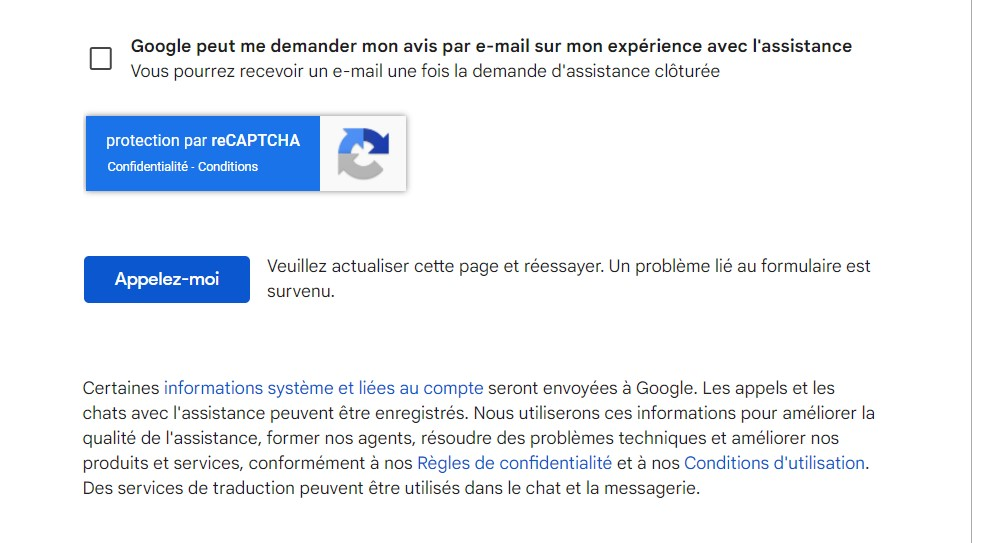
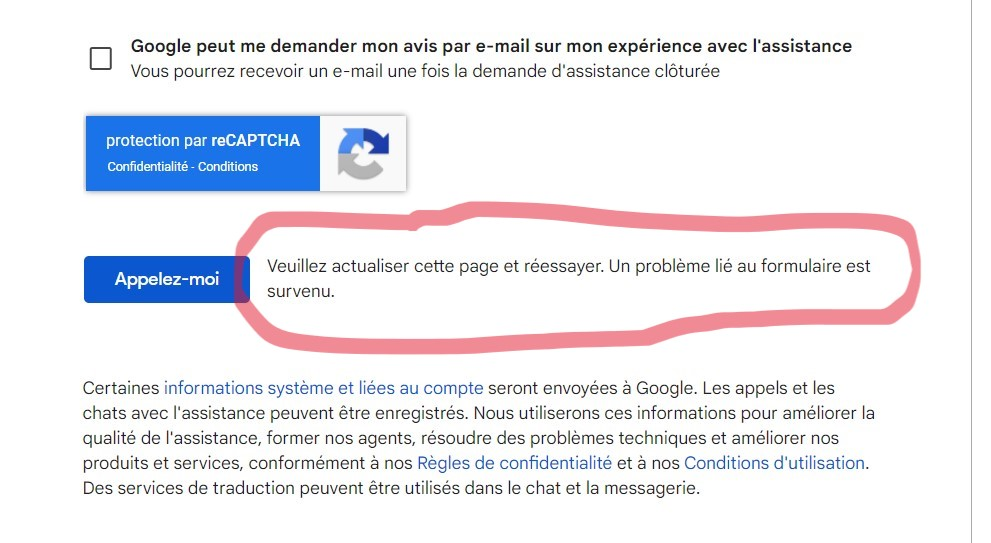
Fin MONs temps 1

Changed region(s): [[0.2119, 0.3536, 0.9384, 0.6777]]

diff --git a/TAING-Henri/mon/temps-1-2/index.md b/TAING-Henri/mon/temps-1-2/index.md
@@ -37,14 +37,15 @@ Avoir un cerveau à moitié allumé et encore...
 
 ## 1. Introduction <a id="section-1"></a>
 
-Ici, vous trouverez la suite du MON 1-1, sur "Les principes fondamentaux du marketing digital". Suivant la conclusion écrite au MON 1-1, les répétitions sont toujours présentes. Je vais essayer de les éviter le plus possible et de simplement compléter ce qu'il manquait dans le MON 1-1. De plus, autre chose que je n'ai pas mentionné, les exemples ne sont pas forcément toujours pertinents. Je pensais en apprendre plus sur les réseaux sociaux, finalement, nous sommes restés à la surface, ou peut-être est-ce parce qu'il n'y a pas de fond...
+Ici, vous trouverez la suite du MON 1-1, sur "Les principes fondamentaux du marketing digital". Suivant la conclusion écrite au MON 1-1, les répétitions sont toujours présentes. Autre chose que je n'ai pas mentionné, les exemples ne sont pas forcément toujours pertinents.
+Je pensais en apprendre plus sur les réseaux sociaux, finalement, nous sommes restés à la surface, ou peut-être est-ce parce qu'il n'y a pas de fond...
 
-Pour une raison qui me dépasse, j'ai rencontré plein de problèmes sur cette moitié de la formation, des erreurs 404 à la pelle et des fautes (?) de traduction.
+Pour une raison qui me dépasse, j'ai rencontré beaucoup de problèmes sur la deuxième moitié de la formation, des erreurs 404 à la pelle et des fautes (?) de traduction.
 :-------------------------:|:-------------------------:
 <img src="erreur404.jpg" width="350" height="350"> | <img src="eng2.jpg" width="350" height="350">
 
-J'ai essayé de reporter le problème à Google, mais même le formulaire n'a pas voulu s'envoyer.
-![Erreur formulaire](erreurformulaire.jpg "Erreur formulaire").
+J'ai essayé de reporter le problème à Google, mais même le formulaire ne voulait pas s'envoyer.
+![Erreur formulaire](erreurformulaire.jpg "Erreur formulaire"){width = 70%}.
 
 Enfin, j'ai réussi à finir la formation tant bien que mal, sans bien saisir le pourquoi du comment.
 
@@ -52,22 +53,24 @@ Enfin, j'ai réussi à finir la formation tant bien que mal, sans bien saisir le
 
 ### Le téléphone <a id="subsection-1"></a>
 
-Pour améliorer leur présence sur mobiles, la première étape consiste à modifier son site existant afin de le rendre réactif ou **"responsive"**. Ainsi, il s'affiche de façon optimale pour un maximum d'utilisateurs, sur tous les types d'appareils. Pour cela, il est préférable de faire appel à un développeur d'applications professionnel ou d'utiliser un outil en libre-service.
+Pour améliorer leur présence sur mobiles, la première étape consiste à modifier son site existant afin de le rendre réactif, **"responsive"**, pour qu'il soit accessible peu importe l'appareil utilisé.
 La deuxième étape est d'dentifier son audience, puis la segmenter sous la forme de groupes avant de créer des contenus ciblant ces utilisateurs.
 La troisième est de produire des contenus de qualité. Pour ce faire, un moyen simple consiste à élaborer une déclaration de mission en matière de contenu.
+
 Rédigez-la selon le modèle suivant :
 Notre [*décrivez l'entreprise ou la marque, par exemple "magasin local d'articles pour animaux"*] propose [*indiquez un service, par exemple "des équipements et des jeux d'excellente qualité pour le dressage canin"*]. Nous nous démarquons [*insérez votre particularité, par exemple "par notre expertise unique"*] et nous avons pour objectif [*indiquez le résultat souhaité pour vos clients, par exemple "de gagner la confiance des nouveaux propriétaires d'animaux domestiques"*]. Votre déclaration de mission en matière de contenu devrait donc se présenter comme suit : "Notre magasin local d'articles pour animaux vous propose des conseils d'expert et des équipements de qualité en matière de dressage canin. Nous sommes là pour vous aider à devenir le meilleur maître possible."
-Enfin, on publie le contenu et en faire la promotion auprès des segments d'audience qu'il a définis. On doit toujours privilégier la qualité plutôt que la quantité, et s'efforcer de débuter chaque article par une accroche attrayante.
+
+Enfin, on publie le contenu et on en fait la promotion auprès des segments d'audience qu'il a définis. On doit toujours privilégier la qualité plutôt que la quantité, et s'efforcer de débuter chaque article par une accroche frappante.
 
 Ces contenus passent par des canaux qui peuvent être publics ou privés.
-Les canaux publics désignent le relais des informations par un tiers, par exemple le partage du contenu par un autre blogger .Ils optimisent la portée et la crédibilité du contenu.
-Et, les canaux payants désignent tous les éléments de promotion qui vous sont facturés. Ces canaux peuvent vous permettre de cibler une audience spécifique, en fonction des objectifs et du budget de votre campagne.
+Les **canaux publics** désignent le relais des informations par un tiers, par exemple le partage du contenu par un autre blogger .Ils optimisent la portée et la crédibilité du contenu.
+Et, les **canaux payants** désignent tous les éléments de promotion qui vous sont facturés. Ces canaux peuvent vous permettre de cibler une audience spécifique, en fonction des objectifs et du budget de votre campagne.
 
 ### Les emails <a id="subsection-2"></a>
 
 Le **marketing par e-mail** est particulièrement efficace pour entrer et rester en contact avec ses clients. L'objet de vos e-mails doivent donner une bonne première impression, le contenu doit être concis avec de fortes incitations à l'action, et inclure des liens utiles pour les clients.
 
-Grâce aux outils d'analyse, on peut savoir combien de ses e-mails sont ouverts par les utilisateurs (**taux d'ouverture**) et combien de personnes cliquent sur les liens inclus dans les messages (**taux de clic**), et bounce rate (**taux de rebond**) qui est le pourcentage de visiteurs n'ayant pas ouvert une seule page ou cliqué sur un seul lien. On peut également connaître le nombre de ventes générées par ses e-mails. En revanche, l'analyse n'indique pas à quelle fréquence ses e-mails sont directement envoyés à la corbeille par ses clients potentiels. En plus des données décrites ci-dessus, on peut aussi utiliser l'analyse d'audience pour savoir comment les visiteurs interagissent avec son site.
+Grâce aux outils d'analyse, on peut savoir combien de ses e-mails sont ouverts par les utilisateurs (**taux d'ouverture**) et combien de personnes cliquent sur les liens inclus dans les messages (**taux de clic**), et bounce rate (**taux de rebond**) qui est le pourcentage de visiteurs n'ayant pas ouvert une seule page ou cliqué sur un seul lien. On peut également connaître le nombre de ventes générées par ses e-mails. En revanche, l'analyse n'indique pas à quelle fréquence ses e-mails sont directement envoyés à la corbeille par ses clients potentiels.
 
 On a parlé de segmentation plus tôt, dans le marketing par e-mail, il est important de faire un "test A/B" qui consiste à segmenter votre audience et à envoyer à chaque groupe une variante distincte de votre e-mail pour rendre les choses plus personnelles et plus attractives.
 
@@ -75,19 +78,20 @@ On a parlé de segmentation plus tôt, dans le marketing par e-mail, il est impo
 
 Les liens sponsorisés et la publicité display peuvent tous deux vous aider à trouver des clients et à accroître votre activité, mais ils fonctionnent différemment.
 
-Les **liens sponsorisés** (ou SEM) apparaissent quand les internautes saisissent des mots-clés spécifiques dans un moteur de recherche et fonctionnent sur un système d'enchères où l'enchérisseur ne paie que s'il y a clic. Les annonces du Réseau de Recherche sont textuelles. Par conséquent, elles sont idéales pour présenter un contenu à des personnes qui s'intéressent déjà à un sujet spécifique. Lorsqu'un utilisateur quitte un moteur de recherche, l'annonceur ne peut plus le cibler avec des annonces textuelles.
+Les **liens sponsorisés** (ou SEM) apparaissent quand les internautes saisissent des mots-clés spécifiques dans un moteur de recherche et fonctionnent sur un système d'enchères où l'enchérisseur ne paie que s'il y a clic. Les annonces du Réseau de Recherche sont textuelles. Elles sont idéales pour présenter un contenu à des personnes qui s'intéressent déjà à un sujet spécifique. Mais lorsqu'un utilisateur quitte le moteur de recherche, l'annonceur ne peut plus le cibler avec des annonces textuelles.
 On peut alors opter pour des **annonces display**, qui sont diffusées sur n'importe quel site Web où un espace publicitaire payant est disponible. Une annonce display peut contenir des images, ainsi que des éléments audio et vidéo, ce qui la rend souvent plus attrayante et plus créative qu'une annonce textuelle. Ceci peut attirer des personnes qui n'auraient pas spontanément recherché notre site Web.
 
-En plus de ces deux choses, pour faire revenir les clients potentiels sur le site, ceux qui ont débuté la procédure d'inscription par exemple, on peut faire du **reciblage** (ou remarketing). Ceci consiste à placer un cookie sur l'ordinateur ou le navigateur d'un utilisateur qui a visité votre site Web. Ce cookie permet de suivre le comportement de l'utilisateur et de lui présenter ensuite des annonces ciblées lorsqu'il navigue sur d'autres sites Web ou plateformes en ligne. Cela permet de rappeler à l'utilisateur votre produit ou service, ce qui peut augmenter les chances de conversion ou de réengagement.
+En plus de ces deux choses, pour faire revenir les clients potentiels sur le site, ceux qui ont débuté la procédure d'inscription par exemple, on peut faire du **reciblage** (ou remarketing).
+Ceci consiste à placer un **cookie** sur l'ordinateur ou le navigateur d'un utilisateur qui a visité votre site Web. Ce cookie permet de suivre le comportement de l'utilisateur et de lui présenter ensuite des annonces ciblées lorsqu'il navigue sur d'autres sites Web ou plateformes en ligne. Cela permet de rappeler à l'utilisateur votre produit ou service, ce qui peut augmenter les chances de conversion ou de réengagement.
 
 ## 3. La vidéo <a id="section-3"></a>
 
 ### D'abord, planifier <a id="subsection-4"></a>
 
-La vidéo constitue un élément populaire et attrayant de l'expérience en ligne. Les utilisateurs du monde entier apprécient l'énergie et les messages qu'on peut inclure, de façon extrêmement concise, dans une vidéo. Selon les spécialistes, une minute de vidéo équivaut à 1,8 million de mots !
-La publication de vidéos sur des chaînes YouTube pertinentes constitue un moyen efficace pour partager du contenu, car l'audience recherche déjà des vidéos en rapport avec la cuisine. Si on n'est pas prêt à mettre en ligne ses propres vidéos, il peut diffuser des annonces sur les chaînes et les sites d'autres personnes. On peut aussi publier une vidéo sur les réseaux sociaux, mais il doit utiliser sa page professionnelle et non personnelle. Une autre façon d'utiliser la vidéo est d'intégrer cet aspect à ses e-mails, par exemple, pour augmenter le taux d'interaction avec le contenu.
+Selon les spécialistes, une minute de vidéo équivaut à 1,8 million de mots !
+Si on n'est pas prêt à mettre en ligne ses propres vidéos, on peut diffuser des annonces sur les chaînes et les sites d'autres personnes. On peut aussi publier une vidéo sur les réseaux sociaux, mais on doit utiliser sa page professionnelle et non personnelle. Une autre façon d'utiliser la vidéo est d'intégrer cet aspect à ses e-mails, par exemple, pour augmenter le taux d'interaction avec le contenu.
 
-![Étapes classiques dans la création de vidéo](etapes.jpg "Étapes classiques dans la création de vidéo").
+![Étapes classiques dans la création de vidéo](etapes.jpg "Étapes classiques dans la création de vidéo"){width = 70%}.
 
 En planifiant votre action en amont, vous pouvez tourner plusieurs vidéos en même temps. Cela nécessitera moins d'efforts et de ressources, et donc un budget moins élevé. Afin de limiter les frais, vous pouvez utiliser des téléphones mobiles pour tourner vos vidéos, et le logiciel fourni avec le système d'exploitation de votre ordinateur pour effectuer le montage. N'oubliez pas que l'élaboration du story-board de votre contenu vidéo est une étape essentielle. Elle vous permet de vérifier que tous les paramètres sont définis avant de commencer (dialogues, illustrations, mouvements et angles de la caméra).
 
@@ -105,10 +109,10 @@ Un des principaux avantages qu'offre le numérique pour votre entreprise est de 
 
 Si vous savez comment transformer vos données numériques en **connaissances exploitables**, vous pourrez améliorer les résultats de vos campagnes en ligne et atteindre plus facilement vos objectifs.
 
-![Cycle des données](Cycle_des_donnees.jpg "ycle des données").
+![Cycle des données](Cycle_des_donnees.jpg "Cycle des données").
 
 Grâce aux outils d'analyse, vous pouvez collecter et examiner des données en temps réel. Les feuilles de calcul sont idéales pour stocker et gérer vos données en matière de marketing numérique.
-Réfléchissez aux données relatives à vos actions sur les médias sociaux et essayez de créer une feuille de calcul qui vous permettra d'étudier chaque jour toutes vos statistiques en la matière :
+Réfléchissez aux données relatives à vos actions sur les médias sociaux et essayez de créer une feuille de calcul qui vous permettra d'étudier chaque jour toutes vos statistiques :
 
 1. Créez une ligne pour chaque média social.
 2. Dans les colonnes, saisissez les données suivantes dans la première ligne : nombre d'abonnés, nombre total de J'aime (ou autres statistiques provenant de chaque média social), engagement (par exemple, les retweets/réponses pour Twitter ou les partages/commentaires pour Facebook) et toute autre statistique pertinente par rapport à vos objectifs spécifiques (utilisation des hashtags ou taux de conversion, par exemple).
@@ -116,15 +120,18 @@ Réfléchissez aux données relatives à vos actions sur les médias sociaux et 
 
 À l'aide de ce tableau, vous pouvez utiliser des représentations pour faciliter l'interprétation des données et donc les transformer en quelque chose d'exploitable et pertinent. Par exemple, les graphiques à secteurs sont plus efficaces pour illustrer des pourcentages plutôt que des variations ou des tendances. La carte thermique peut représenter des données de localisation. Plus qu'à choisir ce qui pourrait intéresser ou être utile aux investisseurs.
 
-### 4. Créer une boutique en ligne <a id="section-4"></a>
+### 4. Créer une boutique en ligne et viser l'international <a id="section-4"></a>
 
 Une boutique en ligne simplifie les achats directs sur le site en offrant une plateforme centralisée pour gérer efficacement les commandes des clients, ce qui peut améliorer l'efficacité opérationnelle et la gestion des stocks. Cela permet au propriétaire ou au gérant de suivre facilement les ventes, de gérer les niveaux de stock, de traiter les commandes et de s'assurer que les produits sont expédiés rapidement et de manière efficace.
 
-Avant de se lancer à l'international, vous devez connaître la différence entre "traduction" et "localisation", et vérifier que vous possédez l'infrastructure technique nécessaire pour gérer cette démarche globale. Une fois que vous disposez d'une base solide, vous pouvez diffuser vos annonces dans le monde entier afin de présenter vos messages marketing auprès des bonnes personnes, où qu'elles se trouvent.
+Prochaine étape, l'international.
+Vous devez connaître la différence entre "**traduction**" et "**localisation**", et vérifier que vous possédez l'infrastructure technique nécessaire pour gérer cette démarche globale.
 
-La **traduction** consiste à retranscrire le contenu dans une autre langue. Quant à la **localisation**, elle vise à adapter le contenu à une autre culture. Il s'agit, par exemple, de supprimer ou de réécrire les expressions courantes, les tournures idiomatiques ou le contenu humoristique. Plus généralement, le but est d'adapter le site aux besoins du nouveau marché. La localisation peut également consister à modifier des éléments comme la devise, les adresses et les références culturelles afin de rendre le contenu conforme au marché local.
+La **traduction** consiste à retranscrire le contenu dans une autre langue.
 
-Avant de déterminer si on parviendrait à atteindre nos objectifs de croissance en développant nos activités dans un autre pays, on doit vérifier plusieurs points :
+Quant à la **localisation**, il s'agit d'adapter le contenu à une autre culture, par exemple, en supprimant ou en réécrivant les expressions courantes, les tournures idiomatiques ou le contenu humoristique. La localisation peut également consister à modifier des éléments comme la devise, les adresses et les références culturelles afin de rendre le contenu conforme au marché local.
+
+Avant de déterminer si on parviendra à atteindre nos objectifs de croissance en développant nos activités dans un autre pays, on doit vérifier plusieurs points :
 
 - Les droits de douane
 - Les taxes du pays qui nous intéresse
@@ -136,11 +143,11 @@ Enfin, on doit également vérifier la procédure d'expédition, ainsi que les d
 
 ## 5. Conclusion et remarques <a id="section-5"></a>
 
-En conclusion, je pense que la formation a fonctionné dans le sens où j'ai bien l'impression d'avoir acquis les bases du marketing digital. Finalement, le plus gros défi n'a pas été de passer la certification, mais de faire cet exercice de rédaction et de synthèse de tous les éléments mentionnés.  
-Plus qu'à appliquer ça dans le cadre de la commercialisation d'un futur produit (?) !
+La formation a fonctionné dans le sens où j'ai bien l'impression d'avoir acquis les bases du marketing digital.
+Le plus gros défi n'a pas été de passer la certification, mais de faire cet exercice de rédaction et de synthèse de tous les éléments mentionnés et de survivre aux heures interminables de vidéos.
 
-Un commentaire sur la formation :
-5/10, j'ai appris des choses, mais la forme laisse à désirer et le fond n'est pas profond, sans compter les problèmes techniques. Je pense que prendre le temps d'appliquer toute cette théorie apprise me ferait augmenter la note, mais, au pire, je reviendrai dessus plus tard. Il n'est jamais trop tard pour changer d'avis après tout.
+<u>Un dernier commentaire sur la formation<u>
+5/10, le fond n'est pas profond, sans compter les problèmes techniques. Prendre le temps d'appliquer serait intéressant. Ce sera pour plus tard, peut-être.
 
 ### Sources
 

diff --git a/TAING-Henri/mon/temps-1-1/index.md b/TAING-Henri/mon/temps-1-1/index.md
@@ -35,14 +35,12 @@ Avoir un cerveau à moitié allumé
 
 ## 1. Introduction <a id="section-1"></a>
 
-Être ingénieur, au-delà de nécessiter d'un bagage technique, demande des soft-skills développés et un contact humain particulier. Savoir vendre et savoir se vendre, voilà ce que je veux apprendre à travers cette formation "Les fondamentaux du marketing digital" proposée par Google. Et dans ce MON, je résume ces 40 heures qui ne sont pas que du plaisir.
-Ici, on prend le point de vue d'une personne voulant créer son entreprise et la développer sur internet.
+Savoir vendre, voilà ce que je veux apprendre à travers cette formation "Les fondamentaux du marketing digital" proposée par Google. Dans mon MON 1.1 et 1.2, je synthétise ces 40 heures qui ne sont pas que du plaisir.
+On prendra le point de vue d'une personne voulant créer son entreprise et la développer sur internet.
 
 ## 2. Développer son activité sur internet <a id="section-2"></a>
 
 ### Une introduction du pourquoi et du comment <a id="subsection-1"></a>
-
-Développer ses services sur internet permet de toucher de nouveaux prospects et d'établir de meilleures relations avec les clients existants. On peut vendre ses produits ou services au niveau local et/ou international, et utiliser des outils d'analyse perfectionnés pour connaître précisément les attentes et les besoins des consommateurs.
 
 Avant de se lancer, il est important de définir ses objectifs, ses valeurs et son argument de vente unique pour pouvoir construire sa stratégie marketing et composer sa campagne de publicité ciblée.
 Quelques questions pour nous orienter :
@@ -56,20 +54,20 @@ Une façon de commencer pour faire la publicité de notre entreprise est de pass
 
 ### Lancer son site web <a id="subsection-2"></a>
 
-Il va falloir obtenir ce que l'on appelle un "**espace d'hébergement**", que l'on peut comparer à un terrain constructible. Vous devez parfois payer des frais, mais l'hébergement est parfois gratuit. Par conséquent, comparez les offres avant de vous décider. Il existe de nombreux "terrains constructibles" sur un serveur. On peut d'ailleurs imaginer ce dernier comme une rue où de nombreuses entreprises louent un espace de site Web et partagent en quelque sorte le même code postal. Chaque serveur est associé à ce que l'on appelle une adresse IP (Internet Protocol). Il s'agit d'une chaîne de numéros pouvant être localisés par tout appareil capable de se connecter à Internet. Chaque site Web dispose d'un nom de domaine, à savoir tout ce qui suit "www." (World Wide Web). Cela fonctionne un peu comme l'adresse postale de votre domicile.
-Que se passe-t-il si un utilisateur souhaite vous trouver ou, comme ici, accéder à votre site Web ? Il se sert d'un navigateur, tel que Google Chrome. Celui-ci repère votre site Web, récupère les informations, puis les affiche. La durée de chargement d'un site dépend de plusieurs facteurs : la quantité et le type de données ainsi que la vitesse de la connexion Internet, par exemple.
+Il va falloir obtenir ce que l'on appelle un "**espace d'hébergement**", que l'on peut comparer à un terrain sur lequel on peut construire.
+Il existe de nombreux "terrains" sur un serveur. On peut d'ailleurs imaginer ce dernier comme une rue où de nombreuses entreprises louent un espace de site Web et partagent en quelque sorte le même code postal. Chaque serveur est associé à ce que l'on appelle une adresse IP (Internet Protocol). Il s'agit d'une chaîne de numéros pouvant être localisés par tout appareil capable de se connecter à Internet. Chaque site Web dispose d'un nom de domaine, à savoir tout ce qui suit "www." (World Wide Web). Cela fonctionne un peu comme l'adresse postale de votre domicile.
+Un utilisateur voulant vous retrouver, repère votre site Web grâce à une recherche sur son navigateur, récupère les informations, puis les affiche.
+La durée de chargement d'un site dépend de plusieurs facteurs : la quantité et le type de données ainsi que la vitesse de la connexion Internet, par exemple.
 
-Une attention particulière doit être portée à la façon d’organiser les informations sur les pages. De plus, le ton employé doit inspirer confiance aux utilisateurs, raconter l'histoire de l'entreprise et décrire ses produits, sans pour autant les intimider ou les désintéresser. Il est important que le ton du post corresponde à la vocation du canal social utilisé. Obtenir des avis peut beaucoup aider, n’hésitez pas à contacter vos meilleurs clients pour qu’ils puissent partager leurs témoignages.
+Une attention particulière doit être portée à la façon d’organiser les informations sur les pages. Le ton employé doit inspirer confiance aux utilisateurs, raconter l'histoire de l'entreprise et décrire ses produits, sans pour autant les intimider ou les désintéresser. Il est important que le ton du post corresponde à la vocation du canal social utilisé. Obtenir des avis peut beaucoup aider, n’hésitez pas à contacter vos meilleurs clients pour qu’ils puissent partager leurs témoignages.
 
 ### Parcours client <a id="subsection-3"></a>
 
 En plus des codes de la **bonne pratique**, tels qu’avoir une barre de recherche et la possibilité de revenir sur l’accueil en cliquant sur le logo, il faut savoir se mettre à la place du client.
 
-Faites la liste de ce que vous voulez que les gens puissent faire sur votre site, comme trouver votre numéro de téléphone, remplir un formulaire de contact, ou regarder une vidéo. Ensuite, demandez à un ami ou à un membre de votre famille (qui n'a jamais vu votre site) d'essayer d'accomplir ces tâches. Si possible, observez-le pendant qu'il navigue sur votre site. Est-ce qu'il y arrive ? Est-ce que certaines zones de votre site sont difficiles à utiliser ? Est-ce que certains points pourraient être améliorés ?
-
 Repensez au dernier produit que vous avez acheté en ligne, puis réexaminez le modèle "**See, Think, Do, Care**" (voir, penser, agir, accorder de l'attention) que nous avons abordé dans cette leçon.
 Analysez votre parcours client via les points de contact rencontrés avant de réaliser l'achat.
-![Questions à se poser sur le parcours client](lesquestions.jpg "Questions à se poser sur le parcours client").
+![Questions à se poser sur le parcours client](lesquestions.jpg "Questions à se poser sur le parcours client"){width=70%}.
 
 Quelques points à garder en tête en plus :
 
@@ -83,7 +81,6 @@ Quelques points à garder en tête en plus :
 ### Mesurer pour optimiser <a id="subsection-4"></a>
 
 Les outils d'analyse permettent de savoir quelles sont les sections les plus consultées et connaître l'origine géographique des utilisateurs afin de pouvoir adapter sa stratégie. On peut ainsi effectuer une segmentation de la clientèle ou par exemple, si de nombreuses personnes accèdent à son site sur un appareil mobile, on peut vérifier que son site est optimisé pour les smartphones.
-De plus, si on ajoute le code de suivi des conversions à la page qui s'affiche une fois que l'utilisateur a envoyé sa demande de renseignements, on saura quand un client potentiel a précisément effectué cette action. Ainsi, on pourra bien les distinguer de ceux qui ont consulté la page de demande d'informations, mais qui ont décidé de ne pas envoyer de message.
 
 Afin de fournir une analyse pertinente, il nous faut choisir nos **KPIs — les Key Indicator Performance** en anglais, sont les indicateurs d'une entreprise qui permettent de mesurer une performance — qui sont : - spécifiques - mesurables - réalistes - pertinents - limités dans le temps.
 Un KPI peut correspondre à n'importe quel élément vous rapprochant de la réalisation de votre objectif.
@@ -96,7 +93,8 @@ Cependant, nous pouvons faire en sorte de maximiser nos chances d'apparaître da
 
 L'utilisation de libellés précis pour vos images facilite leur affichage lorsque les utilisateurs effectuent des recherches pertinentes. De même, l'utilisation de titres de pages précis favorise la visibilité des sites Web dans les résultats de recherche pertinents.
 Enfin, il faut choisir les **mots-clés** que les clients potentiels sont susceptibles de saisir dans le champ de recherche.
-Toutes ces petites astuces font partie du **SEO** (Search Engine Optimization), tous les procédés visant à améliorer la qualité et la quantité des flux vers le site, en particulier, le trafic dit "naturel" ou "organique". Gardez à l'esprit qu'aucune agence ne peut garantir la meilleure position dans les résultats naturels. Avec le **SEA** (Search Engine Advertising), qui lui agit sur le trafic payant à l'aide d'annonces sponsorisées, ils forment le « **SEM** » (Search Engine Marketing) et désignent le marketing des moteurs de recherche.
+Toutes ces petites astuces font partie du **SEO** (Search Engine Optimization) — tous les procédés visant à améliorer la qualité et la quantité des flux vers le site, en particulier, le trafic dit "naturel" ou "organique". Gardez à l'esprit qu'aucune agence ne peut garantir la meilleure position dans les résultats naturels. Avec le **SEA** (Search Engine Advertising), qui lui agit sur le trafic payant à l'aide d'annonces sponsorisées, ils forment le « **SEM** » (Search Engine Marketing) et désignent le marketing des moteurs de recherche.
+
 Le SEM regroupe un ensemble de techniques dont l'objectif commun est de garantir une bonne visibilité à un annonceur via le positionnement organique, d'une part, et la mise en place de campagnes payantes, d'autre part, avec un système d’enchères sur les mots-clés par exemple.
 
 Un plan SEO comprend cinq étapes à réitérer au cours du temps pour suivre les tendances et l'évolution des moteurs de recherche :
@@ -109,9 +107,9 @@ Un plan SEO comprend cinq étapes à réitérer au cours du temps pour suivre le
 
 Dans le domaine du SEO, la **longue traîne** désigne les expressions longues qui correspondent spécifiquement à l'un de vos produits ou services. Elles sont associées à un faible volume de recherches et sont donc confrontées à une concurrence moins élevée. Par conséquent, elles ont plus de chances d'être pertinentes par rapport aux requêtes des utilisateurs.
 
-Un autre outil pour améliorer sa visibilité est le **lien retour**, c'est-à-dire des liens pointant vers son site qui figurent sur d'autres sites Web. Pour cela, il faut produire des contenus de qualité et ne pas hésiter à collaborer avec d'autres personnes. Attention, le moteur de recherche peut tenir compte de la pertinence de l'origine du lien retour, des sites artificiels pour générer des liens retours ne marcherait pas par exemple.
+Un autre outil pour améliorer sa visibilité est le **lien retour**, c'est-à-dire des liens pointant vers son site qui figurent sur d'autres sites Web. Pour cela, il faut produire des contenus de qualité et ne pas hésiter à collaborer avec d'autres personnes. Attention, le moteur de recherche peut tenir compte de la pertinence de l'origine du lien retour, des sites artificiels pour générer des liens retours n'aiderait pas par exemple.
 
-En matière de référencement, la meilleure pratique consiste à créer différentes pages pour chaque langue qu'on souhaite proposer sur son site Web. Ainsi, le site aura toutes les chances d'être correctement indexé dans les moteurs de recherche. Éric doit éviter d'inclure des contenus dans différentes langues sur une même page, car le moteur de recherche ne pourra pas déterminer dans quelle langue ils sont rédigés. Le résultat d'une traduction automatique étant parfois considéré comme du spam, nous lui conseillons également de ne pas utiliser ce type d'outil. Enfin, les annotations de langue sont utiles, car elles aident les moteurs de recherche à afficher le contenu le plus adéquat pour l'utilisateur d'un pays donné.
+En matière de référencement, la meilleure pratique consiste à créer différentes pages pour chaque langue qu'on souhaite proposer sur son site Web. Ainsi, le site aura toutes les chances d'être correctement indexé dans les moteurs de recherche.
 
 On peut également choisir ces "mots-clés à exclure" pour éviter que des personnes ne voient son annonce lorsqu'elles effectuent des recherches sur ces termes pour diffuser des annonces qui correspondent précisément à la recherche des utilisateurs.
 
@@ -119,22 +117,15 @@ On peut également choisir ces "mots-clés à exclure" pour éviter que des pers
 
 Pour certains, le meilleur moyen d'attirer les touristes serait d'adapter son site Web à la **recherche locale**. Aujourd'hui, les utilisateurs ont l'habitude de consulter leur téléphone lorsqu'ils sont en déplacement et ont besoin d'obtenir rapidement des informations. C'est pourquoi il est primordial d'établir une présence en ligne locale pour votre entreprise.
 
-Il faut indiquer au minimum le nom de l'établissement, l'adresse, le numéro de téléphone et les horaires d'ouverture pour inclure sa fiche dans un annuaire local. On peut également ajouter d'autres éléments facultatifs, tels que des photos de ses produits, en fonction du site qu'il a choisi.
-
-Grâce aux annonces locales, on peut adapter son message aux personnes situées à proximité de sa boutique. Toutes ces méthodes permettent de cibler plus spécifiquement les clients locaux.
-
 Le **GPS** est une technologie très intéressante, dont on peut tirer parti. Selon les fonctionnalités de l'application qu'on utilise, on peut envoyer des alertes lorsque des utilisateurs se trouvent à proximité du magasin ou proposer simplement un plan pour les aider à trouver l'itinéraire.
 
 ### 4. Introduction aux réseaux sociaux <a id="section-4"></a>
 
-La finalité des réseaux sociaux repose essentiellement sur la **communication** avec les utilisateurs, le but étant qu'ils vous connaissent mieux, vous et votre entreprise. Vous devez débuter une conversation, puis l'entretenir en publiant régulièrement du contenu, tout en veillant à ne pas inonder vos abonnés de messages. Nous vous déconseillons de nommer et de dénigrer vos concurrents, mais aussi de supprimer tous les posts négatifs, car cela pourrait nuire à votre image et déplaire aux abonnés. Pour ces mêmes raisons, évitez de trop commenter les posts personnels des abonnés.
-Grâce aux réseaux sociaux, on peut mettre en avant le profil de son entreprise et développer sa clientèle en incitant les abonnés à partager leurs contenus avec leurs amis.
+La finalité des réseaux sociaux repose essentiellement sur la **communication** avec les utilisateurs, le but étant qu'ils vous connaissent mieux, vous et votre entreprise.
 
 Un plan marketing sur les réseaux sociaux permet de définir une stratégie et de planifier son activité sur les réseaux et de comment la mesurer. Ensuite, on peut créer des profils sur les réseaux sociaux les plus adaptés à son entreprise et configurer un outil de gestion afin d'effectuer le suivi de son activité sur ces sites. Enfin, on peut préparer des posts à l'avance, qui seront publiés automatiquement lors des événements clés qu'on a planifiés.
 
-Si on souhaite se développer à l'international, on n'a pas besoin de limiter ses annonces à une audience locale. Si on combine une audience mondiale et une publicité correctement ciblée, on pourra utiliser son budget judicieusement, en se concentrant sur les personnes qui ont le plus de chances de devenir des clients.
-
-L'analyse des réseaux sociaux permet aux responsables d'entreprise de savoir comment les clients interagissent sur leur site avec leurs produits et services, et comment ils y accèdent, pour déterminer si ce qu'elle entreprend est bénéfique et identifier les campagnes les plus efficaces pour générer du trafic vers son site Web.
+L'analyse des réseaux sociaux permet de savoir comment les clients interagissent sur leur site avec leurs produits et services, et comment ils y accèdent, pour déterminer si ce qu'elle entreprend est bénéfique et identifier les campagnes les plus efficaces pour générer du trafic vers son site Web.
 
 Le principal avantage des réseaux sociaux, c'est qu'on peut s'adresser directement à vos clients, et interagir avec eux au bon moment et de la bonne façon.
 
@@ -142,8 +133,8 @@ Le principal avantage des réseaux sociaux, c'est qu'on peut s'adresser directem
 
 Nous avons pu dans ce MON 1.1 voir les bases du marketing en ligne, mais il manque un pan, les réseaux sociaux, que nous pourrons voir dans mon MON 1.2.
 
-Un commentaire sur la formation :
-Je suis arrivé à l'équivalent de la moitié de la formation. Il y a beaucoup de répétitions et une insistence fatigante d'utiliser les outils proposés par Google (Oui, ils ont le monopole, mais le rappeler à chaque minute devient lassant). Bien que dans le fond, l'intérêt est là, sur la forme, je pense que l'on pourrait faire mieux, que ce soit en terme de volume horaire en organisant mieux les parties et en évitant des redites et en variant les façons de tester ses connaissances. On aurait également voulu plus de schémas et moins de blabla.
+<u>Un commentaire sur la formation<u>
+Je suis arrivé à l'équivalent de la moitié de la formation. Il y a beaucoup de répétitions et une insistence fatigante d'utiliser les outils proposés par Google (Oui, ils ont le monopole, mais le rappeler à chaque minute est lassant). Bien que dans le fond, l'intérêt est là, sur la forme, je pense que l'on pourrait faire mieux, que ce soit en terme de volume horaire, en organisant mieux les parties et en évitant des redites ou en variant les façons de tester ses connaissances. On aurait également voulu plus de schémas et moins de blabla.
 
 ### Sources
 
